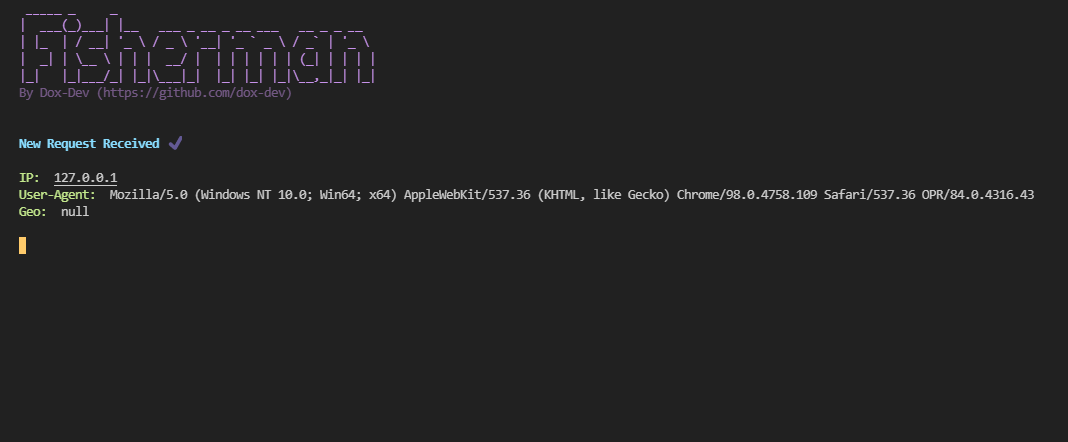
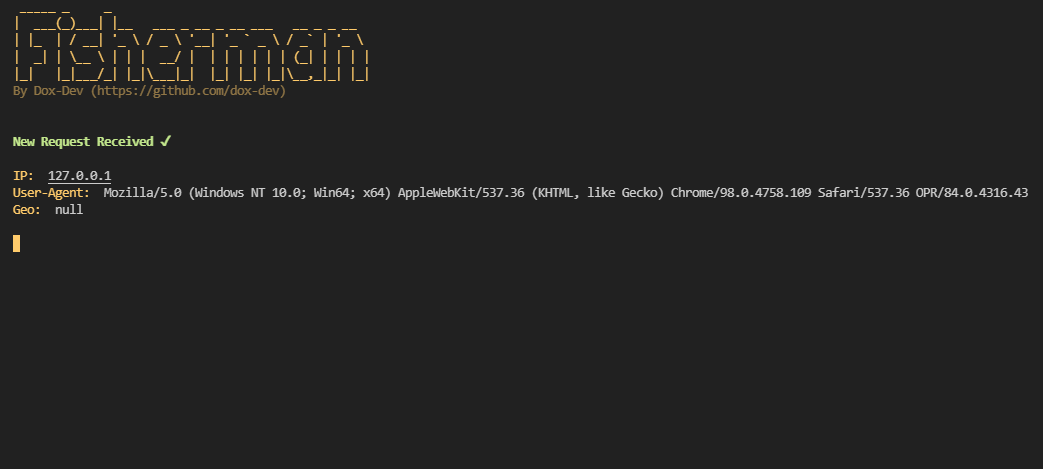
Small Update
Did some small changes. Now there is new (updated) fisherman-cli preview image.
Updated README.md (added Todo List)

Changed region(s): [[0.0, 0.2941, 0.9818, 0.5882], [0.0, 0.0, 0.3682, 0.2353]]

diff --git a/README.md b/README.md
@@ -100,7 +100,9 @@ const token = 'PUT YOUR AUTH TOKEN HERE'
 
 #### Finishing Touches
 
-When you'll add your authentication token, you're all set to go. Now you can start your **Fisherman** server, by typing:<br>
+When you'll add your authentication token, you're all set to go. Right now you can upload your `index.html` file into `/public/` directory.
+
+And that's it! Now you can start your **Fisherman** server, by typing:<br>
 ``` bash
 .\fisherman.sh #Windows
 ```
@@ -109,5 +111,13 @@ or
 sh fisherman.sh #Linux
 ```
 into your Command-Line.
+<br>
+
+## 📝 Todo List
+
+- [] Better Routing
+- [] Faster Response Time
+- [] Better Security
+- [] More Feedback From Client's Connection
 
 ###### Keep in mind that this tool is in its early development, so there still may be some bugs. Sorry for any inconvenience.
